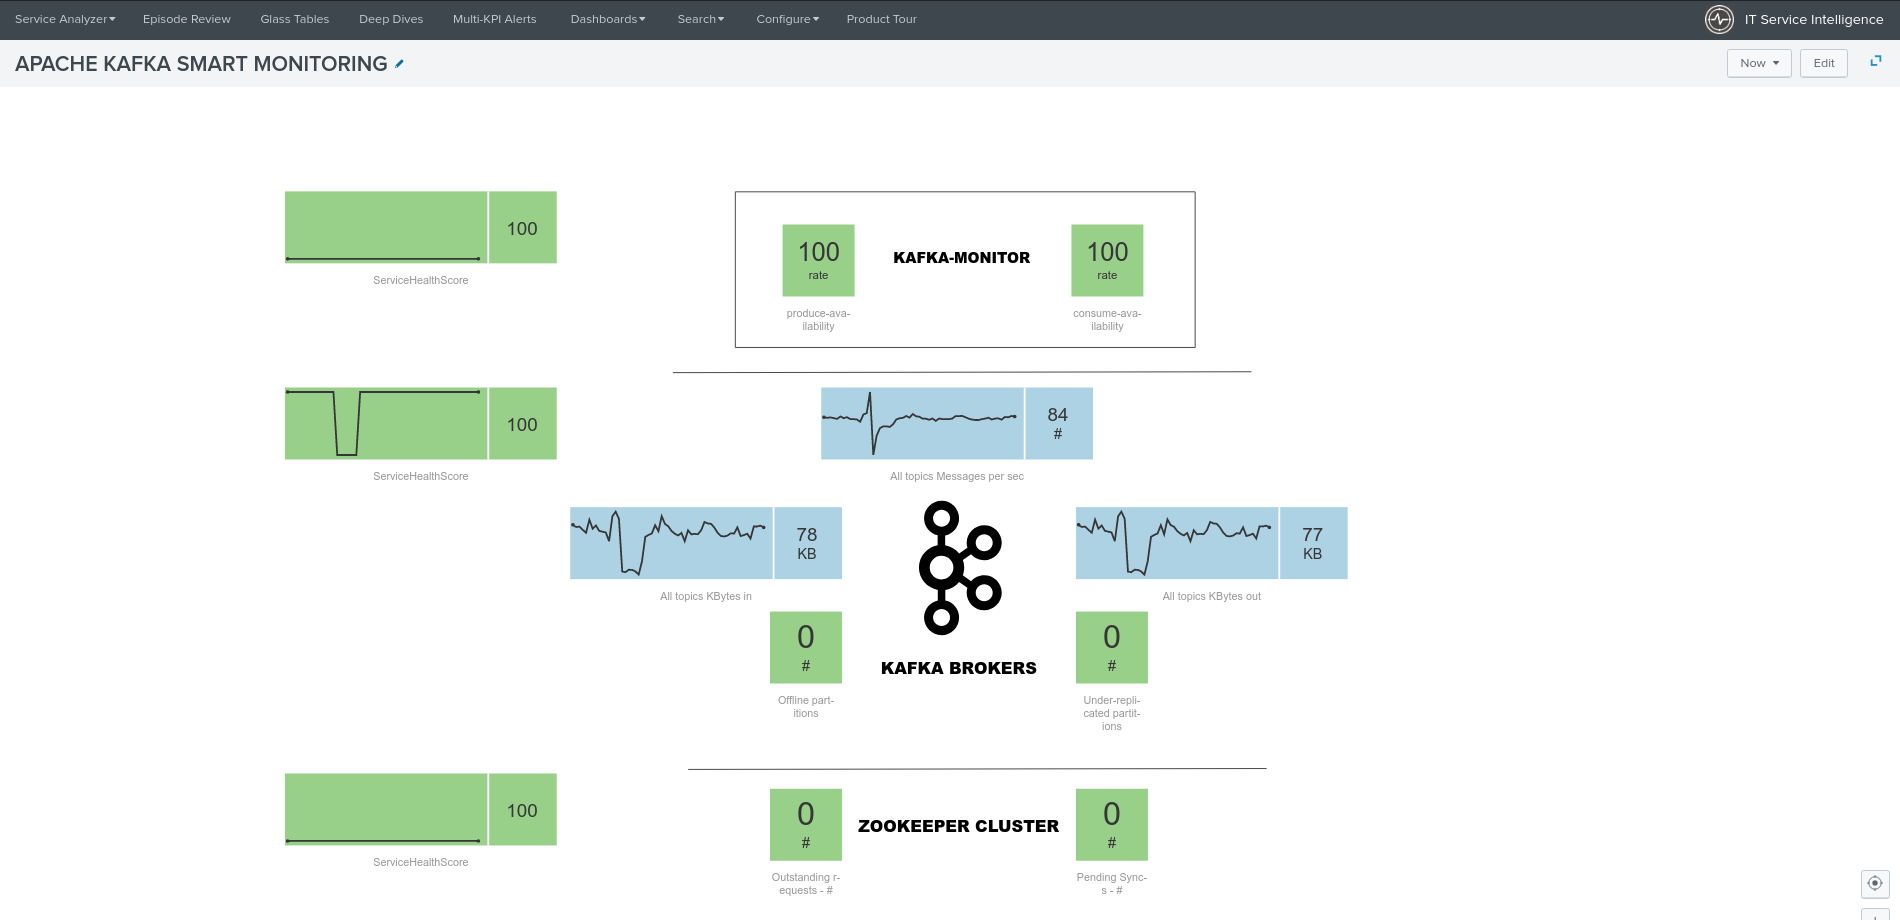
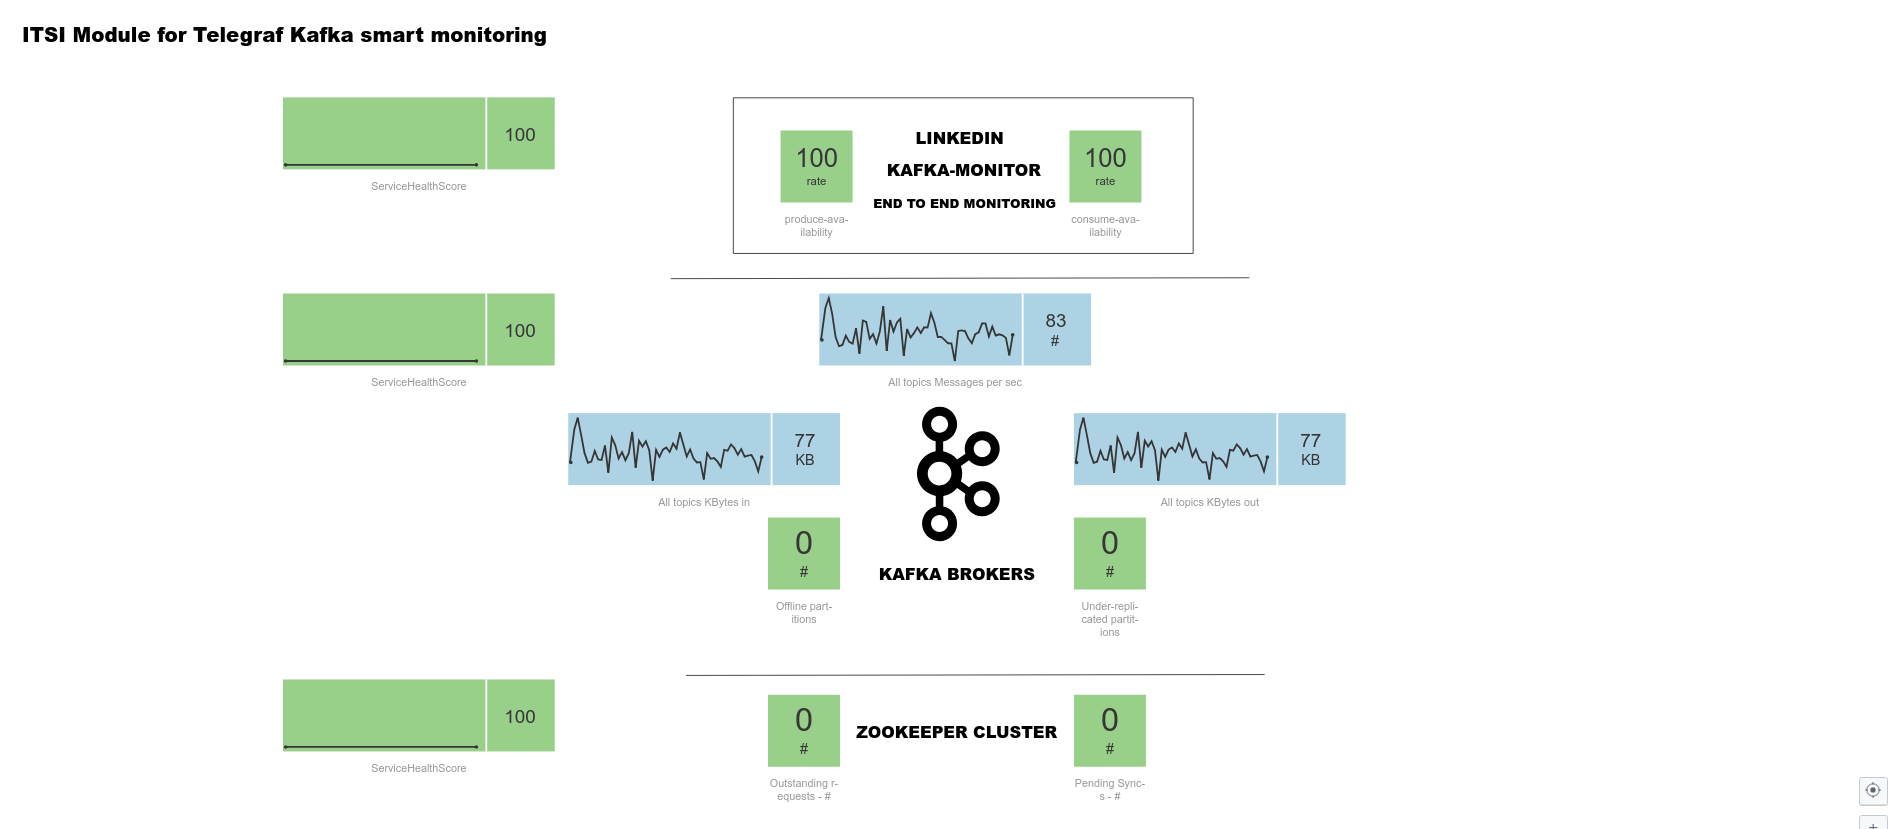
docs in progress

diff --git a/docs/service_creation.rst b/docs/service_creation.rst
@@ -1,50 +1,55 @@
 Services creation
 #################
 
-**The ITSI module for Telegraf OS provides builtin services templates, relying on several base KPIs retrieving data from the metric store.**
+**The ITSI module for Telegraf Kafka smart monitoring provides builtin services templates, relying on several base KPIs retrieving data from the metric store.**
 
-At the moment, the following templates are provides:
+* **DA-ITSI-TELEGRAF-KAFKA-Zookeeper_monitoring**: provides insight monitoring for Zookeeper servers
 
-* Linux OS
-* Windows OS
+* **DA-ITSI-TELEGRAF-KAFKA-Kafka_brokers_cluster**: provides insight monitoring for the Kafka broker infrastructure
 
-Creating a new service
-======================
+* **DA-ITSI-TELEGRAF-KAFKA-Kafka_LinkedIn_monitor**: provides insight monitoring for the LinkedIn Kafka monitor, end to end monitoring for your Kafka deployment
 
-**Creating a new service and importing the KPIs definition is very easy:**
+* **DA-ITSI-TELEGRAF-KAFKA-Kafka_topic_monitoring**: provides insight momitoring for one or more Kafka topics
 
-- Configure / Services / New Service / New Service
+**As a general practice, if you first goal is designing the IT infrastrucure in ITSI, a good generique recommendation is to create a main service container for your Kafka infrastrastruce.**
 
-**Then fill the required information, select the option "Add prebuilt KPIs from modules", and depending on your needs:**
+**As such, every service that will design will be linked to the main service. (the main server depends on them)**
 
-* Telegraf OS Monitoring (Linux)
-* Telegraf OS Monitoring (Windows)
-
-.. image:: img/service_creation1.png
-   :alt: service_creation1.png
+.. image:: img/itsi_dep.png
+   :alt: itsi_dep.png
    :align: center
 
-**Once the service is created, achieve any modification you need such as the hosts to be matched, customize threshold values if required, and finally activate your service.**
+Monitoring Zookeeper servers
+============================
 
-.. image:: img/service_creation2.png
-   :alt: service_creation2.png
+**To monitor your Zookeeper servers, create a new service using the Zookeeper template service and select the proper filters for your entities:**
+
+* Configure / Service / Create new service / Zookeeper monitoring
+
+.. image:: img/service_zookeeper_pic1.png
+   :alt: service_zookeeper_pic1.png
    :align: center
 
-**After the service was created, ITSI will start to generate metrics and you service will be visible in the Service Analyser:**
-
-.. image:: img/service_creation3.png
-   :alt: service_creation3.png
+.. image:: img/service_zookeeper_pic2.png
+   :alt: service_zookeeper_pic2.png
    :align: center
 
-**Developing the entities part of the service provides access to the entity health view:**
+Monitoring Kafka brokers
+========================
 
-.. image:: img/service_creation4.png
-   :alt: service_creation4.png
-   :align: center
 
-**Where you can access to the Telegraf OS health view:**
+Monitoring Kafka topics
+=======================
 
-.. image:: img/main_linux.png
-   :alt: main_linux.png
-   :align: center
+
+End to end monitoring with LinkedIn Kafka monitor
+=================================================
+
+
+
+
+
+
+
+
 
